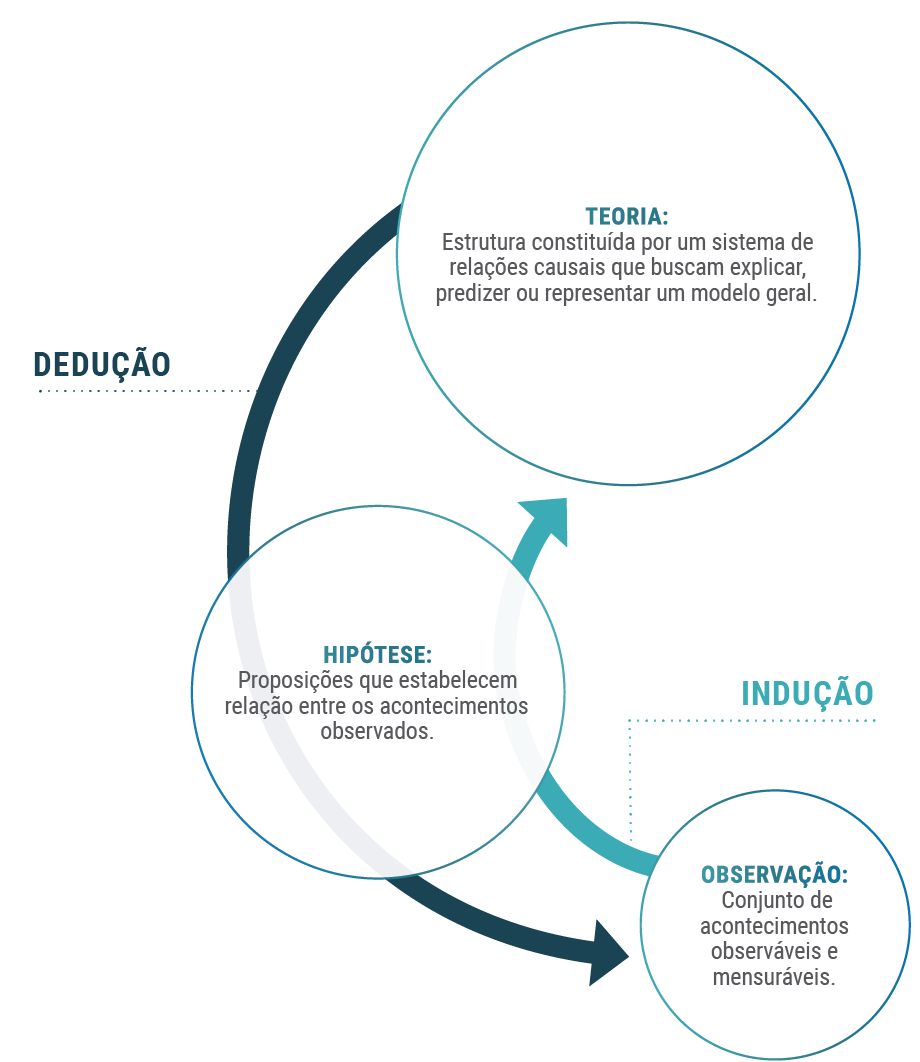
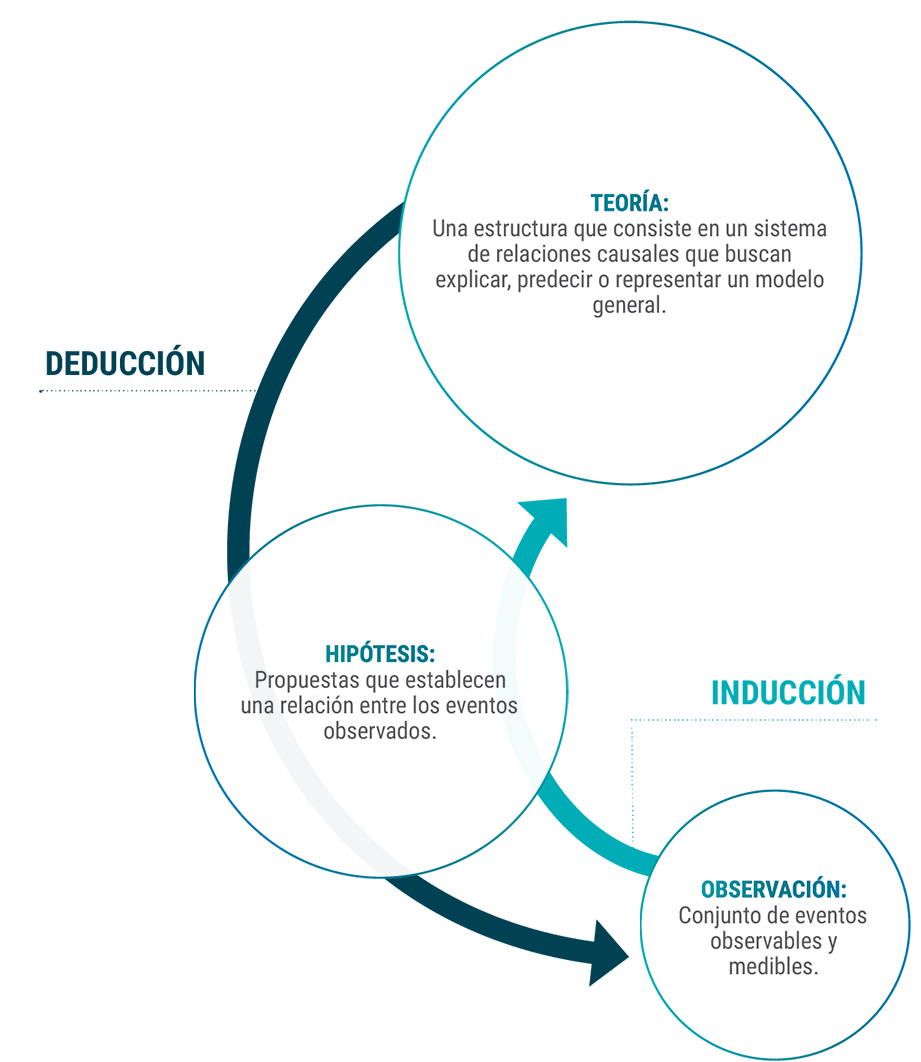
Ajustes-fran

diff --git a/modulo-1/pages/capitulo_1.html b/modulo-1/pages/capitulo_1.html
@@ -124,32 +124,19 @@
             </div>
         </div>
 
+
         <div class="row">
-            <div class="col-md-6 mx-auto center-image">
-
-                <div class="d-none d-md-block mx-auto">
-                    <img src="assets/images/module_1/content/figura-2/nova/5.png" data-aos="fade-right" data-aos-delay="200" style="width: 100% " class="aos-init aos-animate" />
-                    <img src="assets/images/module_1/content/figura-2/nova/1.png" data-aos="fade-down" data-aos-delay="500" style="width: 100%; position:absolute; z-index: 40; top: 0; left:0;" class="aos-init aos-animate" />
-                    <img src="assets/images/module_1/content/figura-2/nova/2.png" data-aos="fade-right" data-aos-delay="800" style="width: 100%; position:absolute; z-index: 50; top: 0; left:0;" class="aos-init aos-animate" />
-                    <img src="assets/images/module_1/content/figura-2/nova/3.png" data-aos="fade-down" data-aos-delay="1000" style="width: 100%; position:absolute; z-index: 60; top: 0; left:0;" class="aos-init aos-animate" />
-                    <img src="assets/images/module_1/content/figura-2/nova/4.png" data-aos="fade-right" data-aos-delay="1200" style="width: 100%; position:absolute; z-index: 30; top: 0; left:0;" class="aos-init aos-animate" />
-                </div>
-
-                <div class="d-block d-md-none mx-auto">
-                    <img src="assets/images/module_1/content/figura-2/mob/5.png" data-aos="fade-right" data-aos-delay="200" style="width: 100% " class="aos-init aos-animate" />
-                    <img src="assets/images/module_1/content/figura-2/mob/1.png" data-aos="fade-down" data-aos-delay="500" style="width: 100%; position:absolute; z-index: 40; top: 0; left:0;" class="aos-init aos-animate" />
-                    <img src="assets/images/module_1/content/figura-2/mob/2.png" data-aos="fade-right" data-aos-delay="800" style="width: 100%; position:absolute; z-index: 50; top: 0; left:0;" class="aos-init aos-animate" />
-                    <img src="assets/images/module_1/content/figura-2/mob/3.png" data-aos="fade-down" data-aos-delay="1000" style="width: 100%; position:absolute; z-index: 60; top: 0; left:0;" class="aos-init aos-animate" />
-                    <img src="assets/images/module_1/content/figura-2/mob/4.png" data-aos="fade-right" data-aos-delay="1200" style="width: 100%; position:absolute; z-index: 30; top: 0; left:0;" class="aos-init aos-animate" />
-                </div>
-
-                <figcaption class="mt-5">
-                    <strong>Figura 2:</strong> El método científico. <br />
-                    <strong>Fuente:</strong> labSEAD-UFSC (2019).
+            <div class="col-xl-7 col-lg-8 col-md-10 mx-auto">
+                <img class="d-md-block img-fluid mx-auto" data-aos="fade-left"
+                 src="assets/images/module_1/content/figura-2/web/1.png" />
+                <figcaption class="mt-2">
+                    <strong>Figura 2: </strong>El método científico. </br><strong>Fuente:</strong> labSEAD-UFSC (2019).
                 </figcaption>
-
             </div>
         </div>
+
+
+
 
         <div class="row">
             <div class="col-md-10 mx-auto">
@@ -239,9 +226,7 @@
                 <p>
                     En este método, es necesario que el investigador reconstruya el delito mediante un análisis completo de la escena del delito y de las evidencias dejadas en ella, para poder inferir las características del autor, ya que estas evidencias muestran la interacción del delincuente con la víctima (CASOY, 2010). En este sentido, <b>la deducción es contraria a la inducción</b>, porque no producirá nuevos conocimientos, sino que hará explícitos los que estaban implícitos. Observa el siguiente ejemplo para comprender mejor la idea.
                 </p>
-                <p>
-                    Vamos observar a figura a seguir para melhor compreensão da ideia.
-                </p>
+               
             </div>
         </div>
 
@@ -706,7 +691,7 @@
                     Hablar de métodos y técnicas científicas de investigación del delito implica toda la dinámica del procedimiento, desde la primera entrevista de la víctima o testigo en el lugar del delito hasta el examen de ADN del rastro de esperma encontrado en la ropa de la víctima. 
                 </p>
                 <p>
-                    Las dos modalidades de recopilación de evidencias, notario y experto, son fundamentales para la investigación criminal. Por lo tanto, es importante que se apliquen durante todo el proceso de investigación.
+                    Las dos modalidades de recopilación de evidencias, pericial y notarial, son fundamentales para la investigación criminal. Por lo tanto, es importante que se apliquen durante todo el proceso de investigación.
                 </p>
                 <p>
                     En la próxima clase, discutiremos los posibles métodos y técnicas de aplicación en la investigación del delito de violación. ¡A seguir!

diff --git a/modulo-1/pages/capitulo_3.html b/modulo-1/pages/capitulo_3.html
@@ -295,7 +295,7 @@
         <div class="row mt-3">
             <div class="col-md-10 mx-auto">
                 <p>
-                    El delito de violación es uno de los más difíciles de encontrar, incluso en los casos en que se conoce al autor. Las razones se derivan de la dinámica del propio acontecimiento delictivo, las circunstancias que lo rodean y el escenario en el que ocurrió.
+                    El delito de violación es una de las infracciones penales más difíciles de verificar, incluso en los casos en que se conoce al autor. Las razones se derivan de la dinámica del propio acontecimiento delictivo, las circunstancias que lo rodean y el escenario en el que ocurrió.
                 </p>
                 <p>
                     Esta dificultad de verificación se debe a que casi siempre el delito se produce fuera de los ojos de cualquier testigo. Además, es muy común que la víctima oculte el hecho o que busque a la policía sólo cuando ya no hay rastros materiales, por temor a la 
@@ -381,7 +381,7 @@
         </div>
 
         <div class="row">
-            <div class="col-md-6 mx-auto mb-2" style="overflow-x: hidden;">
+            <div class="col-md-4 mx-auto mb-2" style="overflow-x: hidden;">
 
                 <img src="assets/images/module_1/content/figura-18/web/Giovanni_Morelli_-_Lenbach.jpg" data-aos="fade-down" data-aos-delay="500" style="width: 100%;" />
 
@@ -413,7 +413,7 @@
                 <div class="citacao">
                     <div>
                         <p>
-                            Los libros de Morelli' - escribe Viento - 'tienen una apariencia bastante inusual en comparación con otros historiadores de arte. Están salpicados de ilustraciones de dedos y orejas, registros cuidadosos de las minucias características que traicionan la presencia de un artista en particular, como un delincuente es traicionado por sus huellas dactilares". Esta comparación fue brillantemente desarrollada por Castelnuovo, quien aproximó el método indicativo de Morelli a lo que fue atribuido, casi en los mismos años, a Sherlock Holmes por su creador, Arthur Conan Doyle. El conocedor de arte es comparable al detective que descubre al autor (del cuadro) basándose en pruebas imperceptibles para la mayoría. Los ejemplos de la inteligencia de Holmes en la interpretación de las huellas en el barro, cenizas de cigarrillos, etc. son, como es bien sabido, incontestables. (WIND apud GINZBURG, 2011, p. 145, traducción nuestra).
+                            Los libros de Morelli' - escribe Wind - 'tienen una apariencia bastante inusual en comparación con otros historiadores de arte. Están salpicados de ilustraciones de dedos y orejas, registros cuidadosos de las minucias características que traicionan la presencia de un artista en particular, como un delincuente es traicionado por sus huellas dactilares". Esta comparación fue brillantemente desarrollada por Castelnuovo, quien aproximó el método indiciario de Morelli a lo que fue atribuido, casi en los mismos años, a Sherlock Holmes por su creador, Arthur Conan Doyle. El conocedor de arte es comparable al detective que descubre al autor (del cuadro) basándose en pruebas imperceptibles para la mayoría. Los ejemplos de la inteligencia de Holmes en la interpretación de las huellas en el barro, cenizas de cigarrillos, etc. son, como es bien sabido, incontestables. (WIND apud GINZBURG, 2011, p. 145, traducción nuestra).
                         </p>
                     </div>
                 </div>
@@ -482,7 +482,7 @@
             <div class="col-md-10 mx-auto">
 
                 <p>
-                    A continuación, acompaña otro método importante para comprender la investigación de los delitos de violación, el método indicativo. ¡A seguir!
+                    A continuación, acompaña otro método importante para comprender la investigación de los delitos de violación, el método indiciario. ¡A seguir!
                 </p>
                 <h3>El método indiciario </h3>
                 <p>

diff --git a/modulo-1/pages/capitulo_2.html b/modulo-1/pages/capitulo_2.html
@@ -7,7 +7,7 @@
 
                 <h2>Contextualizando... </h2>
 
-                <p>Seguramente ahora entiendes la necesidad de basar toda y cualquier investigación del delito como si fuera una investigación científica. Ahora entraremos en una clase más práctica sobre los <b>métodos y técnicasde investigación para el delito de violación</b>. 
+                <p>Seguramente ahora entiendes la necesidad de basar toda y cualquier investigación del delito como si fuera una investigación científica. Ahora entraremos en una clase más práctica sobre los <b>métodos y técnicas de investigación para el delito de violación</b>. 
                 </p>
                 <p>
                     En Brasil, las críticas a la investigación del delito son bastante frecuentes, debido a la ineficiencia y la ineficacia por la falta de calidad y rigor científico. La investigación de un delito de violación requiere la aplicación de métodos y técnicas apropiadas para cada caso, lo que obliga al investigador a abandonar la zona de comodidad que le lleva a apegarse a los métodos tradicionales como único punto de partida, a menudo sin informaciones sobre el perfil del autor.
